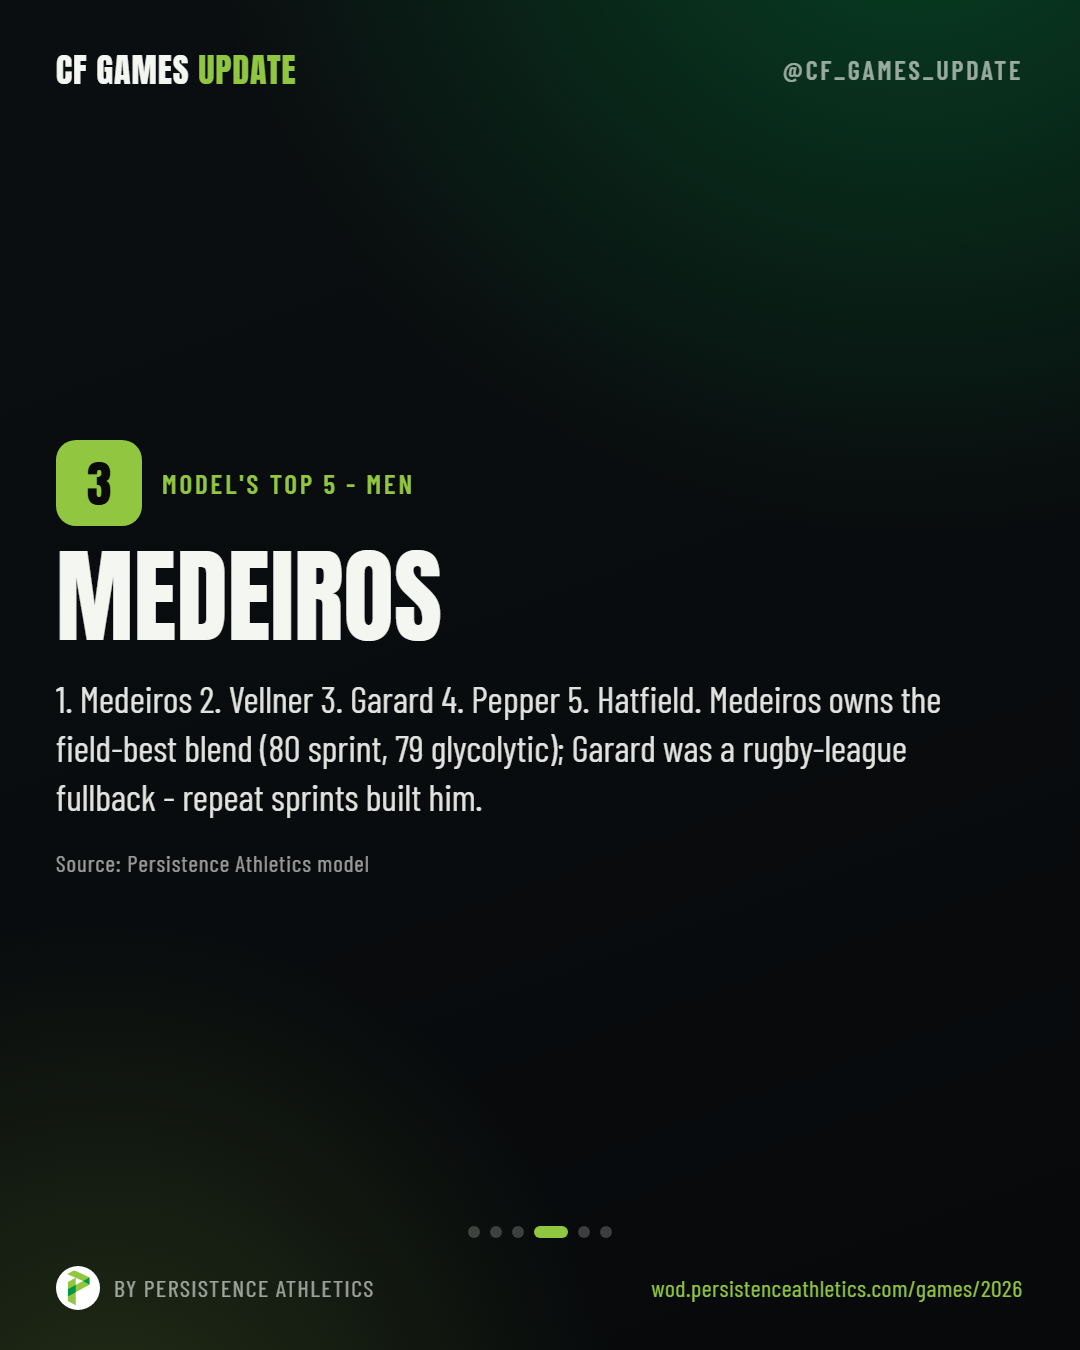
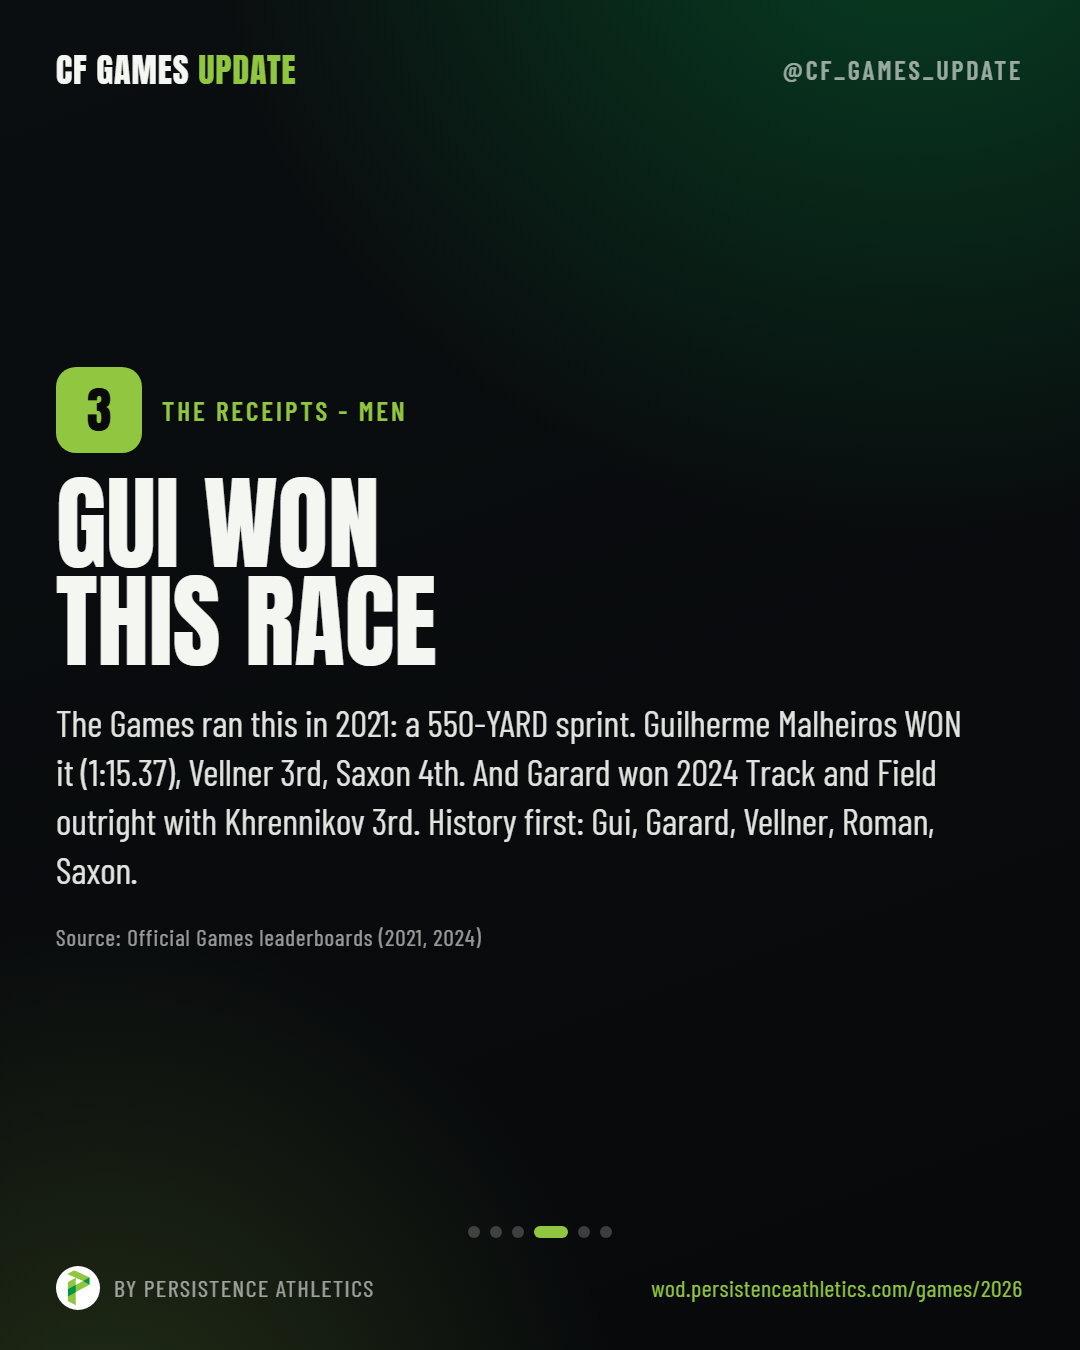
Event 13 read reworked history-first (coach's catch, verified from our data)
The coach flagged that the model missed real Games sprint history, and our
own verified results confirm it: the 2021 Games ran a near-identical test
(Individual Event 3, a 550-YARD sprint) WON by Guilherme Malheiros in
1:15.37 with Vellner 3rd and Saxon Panchik 4th; and Ricky Garard won 2024
Track and Field outright (sprint course 1:04.89) with Khrennikov 3rd. The
model's #1 (Medeiros) went 11th and 25th in those two real footraces.

New men's board (history first): Malheiros, Garard, Vellner, Khrennikov,
Saxon Panchik. Women: Haley Adams leads on the field's best verified sprint
resume (3rd 2021, 2nd 2024, behind only Toomey who is not in this field),
then Brandon, Lawson, von Rohr, Raptis. Post prose, methodology (history
over model, sources added), picks cards, carousel slides 3-4 and the
caption all updated; cards regenerated.

Changed region(s): [[0.0306, 0.2489, 0.8861, 0.6533], [0.0611, 0.6844, 0.4583, 0.7156], [0.3361, 0.28, 0.3667, 0.3111]]

diff --git a/src/games/CardStudio.tsx b/src/games/CardStudio.tsx
@@ -120,18 +120,18 @@ const PICKS: PickSet[] = [
     label: 'Event 13 - The 500m Sprint',
     eventKicker: 'Event 13 - The 500m Sprint',
     eventLine: 'A 500-meter sprint, published on the official workouts page. Roughly 90 seconds all-out.',
-    note: "Score blends the model's sprint-domain percentile, glycolytic score, and measured speed and power. Venue and heats not yet announced. A fit read, not a result prediction.",
+    note: 'Verified Games footrace history first (the 2021 550-yard sprint + 2024 Track and Field, official leaderboards), the season model second. Venue and heats not yet announced. A fit read, not a result prediction.',
     men: [
-      { name: 'Justin Medeiros', value: '79', why: 'Field-best blend: 80 sprint, 79 glycolytic, real speed and power.' },
-      { name: 'Patrick Vellner', value: '76', why: '79 sprint percentile; the veteran still has a gear.' },
-      { name: 'Ricky Garard', value: '74', why: 'Rugby-league fullback pedigree: repeat sprints are home turf.' },
-      { name: 'Dallin Pepper', value: '72', why: '74 glycolytic engine on a powerful frame.' },
-      { name: 'Austin Hatfield', value: '72', why: 'Balanced sprint card; nothing to hide on a run.' },
+      { name: 'Guilherme Malheiros', value: 'WON 21', why: 'WON the 2021 550-yard sprint (1:15.37), the near-identical test.' },
+      { name: 'Ricky Garard', value: 'WON 24', why: 'Won 2024 Track and Field outright; 1:04.89 on the sprint course.' },
+      { name: 'Patrick Vellner', value: '3rd+5th', why: '3rd in the 2021 sprint, 5th in 2024 Track and Field. Always there.' },
+      { name: 'Roman Khrennikov', value: '3rd 24', why: '3rd in 2024 Track and Field. 103 kg and still top-3 on his feet.' },
+      { name: 'Saxon Panchik', value: '4th 21', why: '4th in the 2021 550-yard sprint; the model underrates his wheels.' },
     ],
     women: [
-      { name: 'Emma Lawson', value: '72', why: "Best measured speed in the women's field (73)." },
-      { name: 'Danielle Brandon', value: '72', why: 'Field-best 74 sprint percentile, and a real track/D1 past.' },
-      { name: 'Haley Adams', value: '71', why: 'Speed 73; light, fast, and fearless on a runway.' },
+      { name: 'Haley Adams', value: '3rd+2nd', why: '3rd in the 2021 sprint, 2nd in 2024 Track and Field. Best resume here.' },
+      { name: 'Danielle Brandon', value: '74', why: 'Field-best sprint percentile, real track/D1 past, won the 2022 Speed Medley.' },
+      { name: 'Emma Lawson', value: '73', why: "Best measured speed in the women's field; no footrace history yet." },
       { name: 'Mirjam von Rohr', value: '69', why: 'Field-best 75 glycolytic: she slows down least.' },
       { name: 'Alexis Raptis', value: '68', why: '70 sprint percentile; springy and efficient.' },
     ],
@@ -192,13 +192,13 @@ const CAROUSELS: Carousel[] = [
     id: 'event13-sprint',
     label: 'Event 13 - The 500m Sprint',
     caption:
-      "🏃 EVENT 13 = A 500-METER SPRINT. The official Games workouts page just published Individual Event 13: a 500-meter sprint. No barbell, no rig - one maximal run, in the back half of the weekend on tired legs.\n\nFor this field that's roughly 90 seconds ALL-OUT: peak glycolytic territory, the pathway that makes the last 150 meters pure survival.\n\nOur model's read (sprint + glycolytic + speed + power): Men - Medeiros, Vellner, Garard. Women - Lawson and Brandon in a photo finish, and Brandon is the one athlete here with a real track past (state track teams, D1 pole vault). Swipe. Full breakdown at the link in bio. A model read, not a result prediction.",
+      "🏃 EVENT 13 = A 500-METER SPRINT. The official Games workouts page just published it: one maximal run, ~90 seconds all-out, in the back half of the weekend on tired legs.\n\nHere's the thing: the Games have RUN this race before. The 2021 550-yard sprint - virtually the same distance - was WON by Guilherme Malheiros (1:15.37), with Vellner 3rd and Saxon Panchik 4th. And Ricky Garard won 2024 Track and Field outright with Khrennikov 3rd.\n\nHistory-first read: Men - Gui, Garard, Vellner, Roman, Saxon. Women - Haley Adams owns the best sprint resume in the field (3rd 2021, 2nd 2024), then Brandon (real track/D1 past) and Lawson. Swipe for the receipts. Full breakdown at the link in bio. A history + model read, not a result prediction.",
     slides: [
       { type: 'cover', kicker: 'Event 13', headline: 'THE 500M\nSPRINT', sub: 'One maximal run, published on the official workouts page. Who is built for 90 seconds all-out? Swipe.' },
       { type: 'point', num: 1, kicker: 'The Test', headline: 'NO PLACE\nTO HIDE', body: 'A 500-meter sprint, full stop. No barbell, no rig, no strategy layer. The first pure footrace-at-speed this field has faced at the Games, landing after 12 events of banked fatigue.', source: 'games.crossfit.com (official workouts page)' },
       { type: 'point', num: 2, kicker: 'The Physiology', headline: '90 SECONDS\nOF BURN', body: 'Too long for a pure burst, way too short to settle in: roughly 75-100 seconds of maximal output is peak GLYCOLYTIC territory. Cover the first 200 fast, then race who slows down least.', source: 'Persistence Athletics / L1 energy systems' },
-      { type: 'point', num: 3, kicker: "Model's top 5 - Men", headline: 'MEDEIROS', body: '1. Medeiros 2. Vellner 3. Garard 4. Pepper 5. Hatfield. Medeiros owns the field-best blend (80 sprint, 79 glycolytic); Garard was a rugby-league fullback - repeat sprints built him.', source: 'Persistence Athletics model' },
-      { type: 'point', num: 4, kicker: "Model's top 5 - Women", headline: 'LAWSON &\nBRANDON', body: '1. Lawson 2. Brandon 3. Adams 4. von Rohr 5. Raptis. A photo finish: Lawson has the best measured speed, Brandon the best sprint percentile AND a real track past - state track teams, then a D1 pole-vault scholarship.', source: 'Persistence Athletics model' },
+      { type: 'point', num: 3, kicker: 'The receipts - Men', headline: 'GUI WON\nTHIS RACE', body: 'The Games ran this in 2021: a 550-YARD sprint. Guilherme Malheiros WON it (1:15.37), Vellner 3rd, Saxon 4th. And Garard won 2024 Track and Field outright with Khrennikov 3rd. History first: Gui, Garard, Vellner, Roman, Saxon.', source: 'Official Games leaderboards (2021, 2024)' },
+      { type: 'point', num: 4, kicker: 'The receipts - Women', headline: 'ADAMS HAS\nTHE RESUME', body: '1. Adams (3rd in the 2021 sprint, 2nd in 2024 Track and Field - behind only Toomey both times, and Toomey is not here) 2. Brandon (best sprint score + a real track/D1 past) 3. Lawson (best measured speed) 4. von Rohr 5. Raptis.', source: 'Official Games leaderboards + model' },
       { type: 'cta', headline: 'FULL\nBREAKDOWN', body: 'What 500 meters actually tests, the full method, and both boards are on the site. A model read, not a result prediction.' },
     ],
   },
